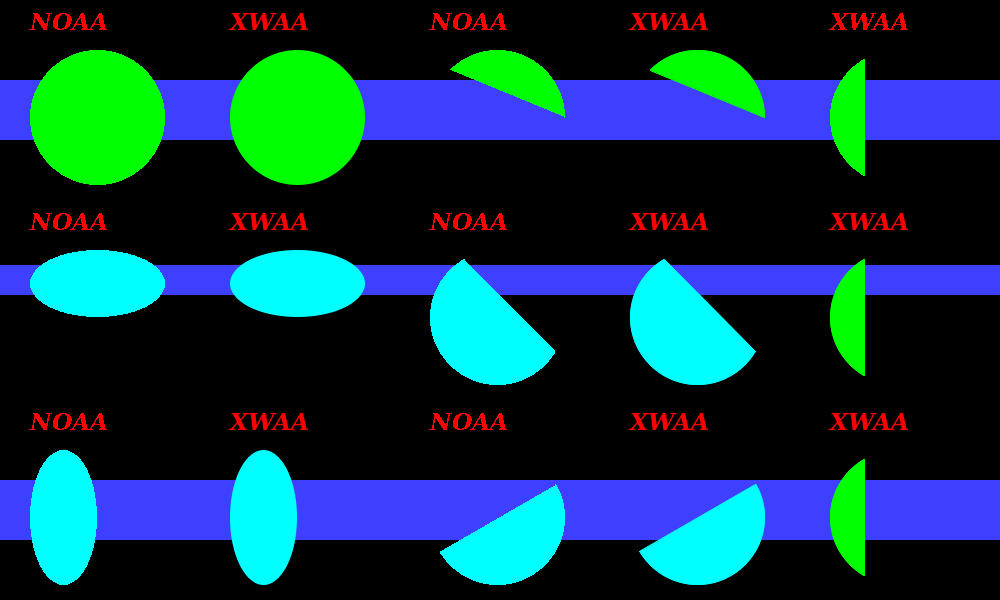
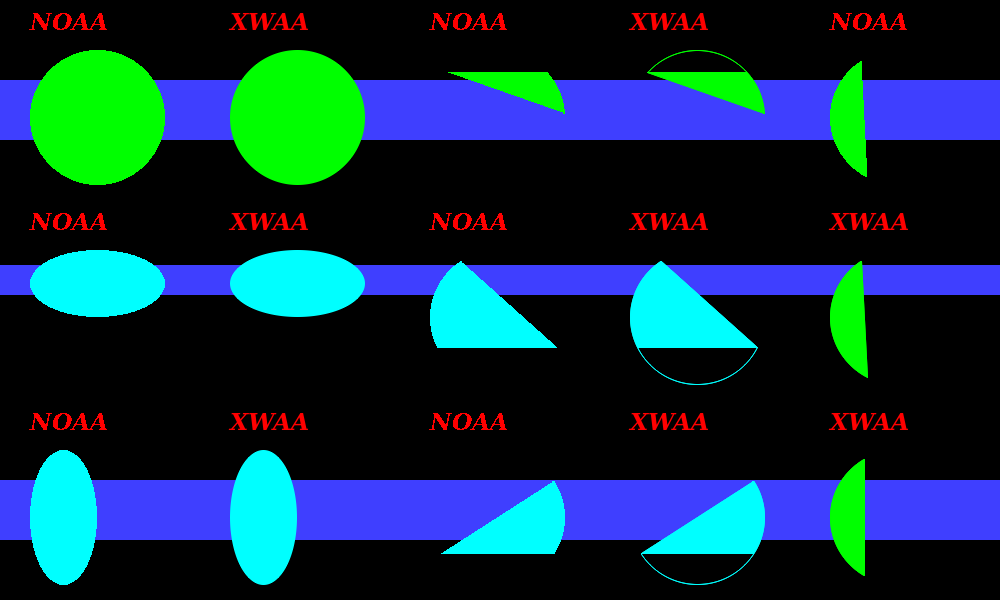
Working on fillArc() - chord mode

diff --git a/src/Pt-Gfx/ImagePainter2.cpp b/src/Pt-Gfx/ImagePainter2.cpp
@@ -415,9 +415,9 @@ void ImagePainter2::drawOnePixelSolidEllipseArcImpl(const PointF& topLeft, const
     Pt::int32_t radY2 = radY * radY;
 
     // Drawing an arc requires more parameters and calculation
-    Pt::int32_t bx = 0, x1 = 0, x1d = MAXIMUM_COORD;
+    Pt::int32_t bx = 0, x1 = 0, x1d = MAXIMUM_COORD; // Begin point
     Pt::int32_t by = 0, y1 = 0, y1d = MAXIMUM_COORD;
-    Pt::int32_t ex = 0, x2 = 0, x2d = MAXIMUM_COORD;
+    Pt::int32_t ex = 0, x2 = 0, x2d = MAXIMUM_COORD; // End point
     Pt::int32_t ey = 0, y2 = 0, y2d = MAXIMUM_COORD;
 
     if(drawArc) {
@@ -709,8 +709,10 @@ void ImagePainter2::fillArcChordImpl(const PointF& topLeft, const SizeF& size, f
     //       from the top of the screen to the bottom
     //     * This will cause addition and subtraction to be reversed when calculating
     //       for the Y coordinate using trigonometry
-    //     * This will also cause >= and < comparison operators to be interchanged when
-    //       determining quadrant using the Y coordinate
+
+
+    // XXXXX    * This will also cause >= and < comparison operators to be interchanged when
+    //      XXXXXX determining quadrant using the Y coordinate
 
     // Update the gradient as needed
     _rasterizer->updateGradientBrushAsNeeded(size.width(), size.height());
@@ -742,9 +744,9 @@ void ImagePainter2::fillArcChordImpl(const PointF& topLeft, const SizeF& size, f
     const Pt::int32_t ey = round(ctrY - radY * fastSin(degEnd   * Pt::Pi / 180)); // See the notes on the beginning of this function
 
     // Used for finding the exact coordinate of the points which are located at the begin and end angle
-    Pt::int32_t x1 = 0, x1d = MAXIMUM_COORD;
+    Pt::int32_t x1 = 0, x1d = MAXIMUM_COORD; // Begin point
     Pt::int32_t y1 = 0, y1d = MAXIMUM_COORD;
-    Pt::int32_t x2 = 0, x2d = MAXIMUM_COORD;
+    Pt::int32_t x2 = 0, x2d = MAXIMUM_COORD; // End point
     Pt::int32_t y2 = 0, y2d = MAXIMUM_COORD;
 
     // === Process the scanlines ===
@@ -904,6 +906,7 @@ void ImagePainter2::fillArcChordImpl(const PointF& topLeft, const SizeF& size, f
         }
     }
 
+    /*
     // Determine the location of the begin and end points
     Pt::int32_t qBeg = 0, qEnd = 0;
 
@@ -960,17 +963,66 @@ void ImagePainter2::fillArcChordImpl(const PointF& topLeft, const SizeF& size, f
         faceL = false;
         faceR = false;
     }
+    switch(qBeg) {
+        case 1 : switch(qEnd) {
+                     case 1 : faceL = x2 < x1; faceR = x2 > x1; faceT = y2 > y1; faceB = y2 > y1; break;
+                     case 2 : faceL = x2 < x1; faceR = x2 > x1; faceT = y2 > y1; faceB = y2 > y1; break;
+                     case 3 : faceL = x2 > x1; faceR = x2 < x1; faceT = y2 > y1; faceB = y2 > y1; break;
+                     case 4 : faceL = x2 > x1; faceR = x2 < x1; faceT = y2 > y1; faceB = y2 > y1; break;
+                 }
+                 break;
+        case 2 : switch(qEnd) {
+                     case 1 : faceL = x2 > x1; faceR = x2 > x1; faceT = y2 > y1; faceB = y2 > y1; break;
+                     case 2 : faceL = x2 > x1; faceR = x2 > x1; faceT = y2 > y1; faceB = y2 > y1; break;
+                     case 3 : faceL = x2 > x1; faceR = x2 > x1; faceT = y2 > y1; faceB = y2 > y1; break;
+                     case 4 : faceL = x2 > x1; faceR = x2 > x1; faceT = y2 > y1; faceB = y2 > y1; break;
+                 }
+                 break;
+        case 3 : switch(qEnd) {
+                     case 1 : faceL = x2 > x1; faceR = x2 > x1; faceT = y2 > y1; faceB = y2 > y1; break;
+                     case 2 : faceL = x2 > x1; faceR = x2 > x1; faceT = y2 > y1; faceB = y2 > y1; break;
+                     case 3 : faceL = x2 > x1; faceR = x2 > x1; faceT = y2 > y1; faceB = y2 > y1; break;
+                     case 4 : faceL = x2 > x1; faceR = x2 > x1; faceT = y2 > y1; faceB = y2 > y1; break;
+                 }
+                 break;
+        case 4 : switch(qEnd) {
+                     case 1 : faceL = x2 > x1; faceR = x2 > x1; faceT = y2 > y1; faceB = y2 > y1; break;
+                     case 2 : faceL = x2 > x1; faceR = x2 > x1; faceT = y2 > y1; faceB = y2 > y1; break;
+                     case 3 : faceL = x2 > x1; faceR = x2 > x1; faceT = y2 > y1; faceB = y2 > y1; break;
+                     case 4 : faceL = x2 > x1; faceR = x2 > x1; faceT = y2 > y1; faceB = y2 > y1; break;
+                 }
+                 break;
+    }
+    */
+
+    // Determine where the direction that the hole faces to
+
+    const Pt::int32_t vx = x2 - x1;           // Vector from the begin point to the end point
+    const Pt::int32_t vy = y2 - y1;           // ---
+    const Pt::int32_t vz = 0;                 // ---
+    const Pt::int32_t rx = 0;                 // Vector from the point of origin (0, 0, 0) that points out of the monitor
+    const Pt::int32_t ry = 0;                 // ---
+    const Pt::int32_t rz = 1;                 // ---
+    const Pt::int32_t cx = vy * rz - vz * ry; // Cross product of the above vectors
+    const Pt::int32_t cy = vz * rx - vx * rz; // ---
+    const Pt::int32_t cz = vx * ry - vy * rx; // ---
+
+    bool faceT = cy < 0;
+    bool faceB = cy > 0;
+    bool faceL = cx < 0;
+    bool faceR = cx > 0;
+
+    //lprintf("qb=%d qe=%d : l=%d r=%d t=%d b=%d\n", qBeg, qEnd, faceL, faceR, faceT, faceB);
+    lprintf("l=%d r=%d t=%d b=%d\n", faceL, faceR, faceT, faceB);
 
     // Crop the spans to the top and bottom as needed
-    if(!faceT && !faceB) {
-        scanlines.erase(scanlines.begin(), scanlines.lower_bound(std::min(y1, y2)));
-        scanlines.erase(scanlines.upper_bound(std::max(y1, y2)), scanlines.end());
+    if(faceL || faceR) {
+        scanlines.erase(scanlines.begin(),                       scanlines.lower_bound(std::min(y1, y2)));
+        scanlines.erase(scanlines.upper_bound(std::max(y1, y2)), scanlines.end()                        );
     }
-    else if(faceT) {
-        scanlines.erase(scanlines.begin(), scanlines.lower_bound(std::min(y1, y2)));
-    }
-    else if(faceB) {
-        scanlines.erase(scanlines.upper_bound(std::max(y1, y2)), scanlines.end());
+    else {
+        if(faceT) scanlines.erase(scanlines.begin(),                       scanlines.lower_bound(std::min(y1, y2)));
+        if(faceB) scanlines.erase(scanlines.upper_bound(std::max(y1, y2)), scanlines.end()                        );
     }
 
     // Crop the spans to the left and right by running the Xiaolin Wu's anti-aliased line algorithm
@@ -1004,15 +1056,14 @@ void ImagePainter2::fillArcChordImpl(const PointF& topLeft, const SizeF& size, f
         if(steep) {
             for(Pt::int32_t i = from; i <= to; ++i) {
                 // Calculate the coordinates
-                Pt::int32_t refXl = FIXED_POINT_TO_INT(FIXED_POINT_IPART(ypxli)                           );
-                Pt::int32_t refXr = FIXED_POINT_TO_INT(FIXED_POINT_IPART(ypxli) + FIXED_POINT_CONSTANT_ONE);
-                Pt::int32_t refY  = i;
+                Pt::int32_t refX = FIXED_POINT_TO_INT(FIXED_POINT_IPART(ypxli));
+                Pt::int32_t refY = i;
                 ypxli += grad;
                 // Crop the corresponding scanline
                 Scanlines::iterator it = scanlines.find(refY);
                 if(it == scanlines.end()) continue;
-                if(faceL && it->second.from < refXr) it->second.from = refXr;
-                if(faceR && it->second.to   > refXl) it->second.to   = refXl;
+                if(faceL && it->second.from < refX) it->second.from = refX;
+                if(faceR && it->second.to   > refX) it->second.to   = refX;
             }
         }
         else {
@@ -1026,12 +1077,12 @@ void ImagePainter2::fillArcChordImpl(const PointF& topLeft, const SizeF& size, f
                 Scanlines::iterator itt = scanlines.find(refYt);
                 Scanlines::iterator itb = scanlines.find(refYb);
                 if(itt != scanlines.end()) {
-                    if(faceL && itt->second.from < refX) itt->second.from = refX;
-                    if(faceR && itt->second.to   > refX) itt->second.to   = refX;
+                    if(faceL && itt->second.from < refX - 1) itt->second.from = refX - 1;
+                    if(faceR && itt->second.to   > refX    ) itt->second.to   = refX;
                 }
                 if(itb != scanlines.end()) {
-                    if(faceL && itb->second.from < refX) itb->second.from = refX;
-                    if(faceR && itb->second.to   > refX) itb->second.to   = refX;
+                    if(faceL && itb->second.from < refX - 1) itb->second.from = refX - 1;
+                    if(faceR && itb->second.to   > refX    ) itb->second.to   = refX;
                 }
             }
         }

diff --git a/src/Pt-Gfx/tests/ImagePainterTest2_Draw_Filled.cpp b/src/Pt-Gfx/tests/ImagePainterTest2_Draw_Filled.cpp
@@ -197,11 +197,11 @@ static void testDrawFillEllipse(const char* title, Image& image, Painter& painte
 
     if(ip2) {
         ip2->setAntiAliasingMode(AntiAliasingMode::None);
-        ip2->fillArc( PointF (30 + 400, 50), SizeF(135, 135), 0, 135, ArcMode::Chord/*Pie*/ );
+        ip2->fillArc( PointF (30 + 400, 50), SizeF(135, 135), 0 + 3, 135 + 3, ArcMode::Chord/*Pie*/ );
         ip2->drawText( PointF(30 + 400, 30), "NOAA" );
 
         ip2->setAntiAliasingMode(AntiAliasingMode::Fastest);
-        ip2->fillArc( PointF (30 + 600, 50), SizeF(135, 135), 0, 135, ArcMode::Chord/*Pie*/ );
+        ip2->fillArc( PointF (30 + 600, 50), SizeF(135, 135), 0 + 3, 135 + 3, ArcMode::Chord/*Pie*/ );
         ip2->drawText( PointF(30 + 600, 30), "XWAA" );
     }
 
@@ -218,11 +218,11 @@ static void testDrawFillEllipse(const char* title, Image& image, Painter& painte
 
     if(ip2) {
         ip2->setAntiAliasingMode(AntiAliasingMode::None);
-        ip2->fillArc( PointF (30 + 400, 50 + 200), SizeF(135, 135), 120, 330, ArcMode::Chord/*Pie*/ );
+        ip2->fillArc( PointF (30 + 400, 50 + 200), SizeF(135, 135), 120 + 3, 330 + 3, ArcMode::Chord/*Pie*/ );
         ip2->drawText( PointF(30 + 400, 30 + 200), "NOAA" );
 
         ip2->setAntiAliasingMode(AntiAliasingMode::Fastest);
-        ip2->fillArc( PointF (30 + 600, 50 + 200), SizeF(135, 135), 120, 330, ArcMode::Chord/*Pie*/ );
+        ip2->fillArc( PointF (30 + 600, 50 + 200), SizeF(135, 135), 120 + 3, 330 + 3, ArcMode::Chord/*Pie*/ );
         ip2->drawText( PointF(30 + 600, 30 + 200), "XWAA" );
     }
 
@@ -239,11 +239,11 @@ static void testDrawFillEllipse(const char* title, Image& image, Painter& painte
 
     if(ip2) {
         ip2->setAntiAliasingMode(AntiAliasingMode::None);
-        ip2->fillArc( PointF (30 + 400, 50 + 400), SizeF(135, 135), -150, 30, ArcMode::Chord/*Pie*/ );
+        ip2->fillArc( PointF (30 + 400, 50 + 400), SizeF(135, 135), -150 + 3, 30 + 3, ArcMode::Chord/*Pie*/ );
         ip2->drawText( PointF(30 + 400, 30 + 400), "NOAA" );
 
         ip2->setAntiAliasingMode(AntiAliasingMode::Fastest);
-        ip2->fillArc( PointF (30 + 600, 50 + 400), SizeF(135, 135), -150, 30, ArcMode::Chord/*Pie*/ );
+        ip2->fillArc( PointF (30 + 600, 50 + 400), SizeF(135, 135), -150 + 3, 30 + 3, ArcMode::Chord/*Pie*/ );
         ip2->drawText( PointF(30 + 600, 30 + 400), "XWAA" );
     }
 
@@ -252,15 +252,15 @@ static void testDrawFillEllipse(const char* title, Image& image, Painter& painte
         painter.setBrush( brush1 );
 
         ip2->setAntiAliasingMode(AntiAliasingMode::None);
-        ip2->fillArc( PointF (30 + 800, 50), SizeF(135, 135), 120, 240, ArcMode::Chord );
-        ip2->drawText( PointF(30 + 800, 30), "XWAA" );
+        ip2->fillArc( PointF (30 + 800, 50), SizeF(135, 135), 120 + 3, 240 + 3, ArcMode::Chord );
+        ip2->drawText( PointF(30 + 800, 30), "NOAA" );
 
         ip2->setAntiAliasingMode(AntiAliasingMode::Fastest);
-        ip2->fillArc( PointF (30 + 800, 50 + 200), SizeF(135, 135), 120, 240, ArcMode::Chord );
+        ip2->fillArc( PointF (30 + 800, 50 + 200), SizeF(135, 135), 120 + 3, 240 + 3, ArcMode::Chord );
         ip2->drawText( PointF(30 + 800, 30 + 200), "XWAA" );
 
         ip2->setAntiAliasingMode(AntiAliasingMode::Fastest);
-        ip2->fillArc( PointF (30 + 800, 50 + 400), SizeF(135, 135), 120, 240, ArcMode::Chord/*Pie*/ );
+        ip2->fillArc( PointF (30 + 800, 50 + 400), SizeF(135, 135), 120 + 0, 240 + 0, ArcMode::Chord/*Pie*/ );
         ip2->drawText( PointF(30 + 800, 30 + 400), "XWAA" );
     }
 

diff --git a/src/Pt-Gfx/tests/ImagePainterTest2.cpp b/src/Pt-Gfx/tests/ImagePainterTest2.cpp
@@ -45,7 +45,7 @@ using namespace Pt::Gfx;
 
 // General settings for Pt-Gfx
 #define DO_TEST_DRAW    1
-#define DO_BENCHMARKING 1
+#define DO_BENCHMARKING 0
 
 // Detailed-test enable settings for Pt-Gfx
 #define TEST_SOURCECOPY                         1
